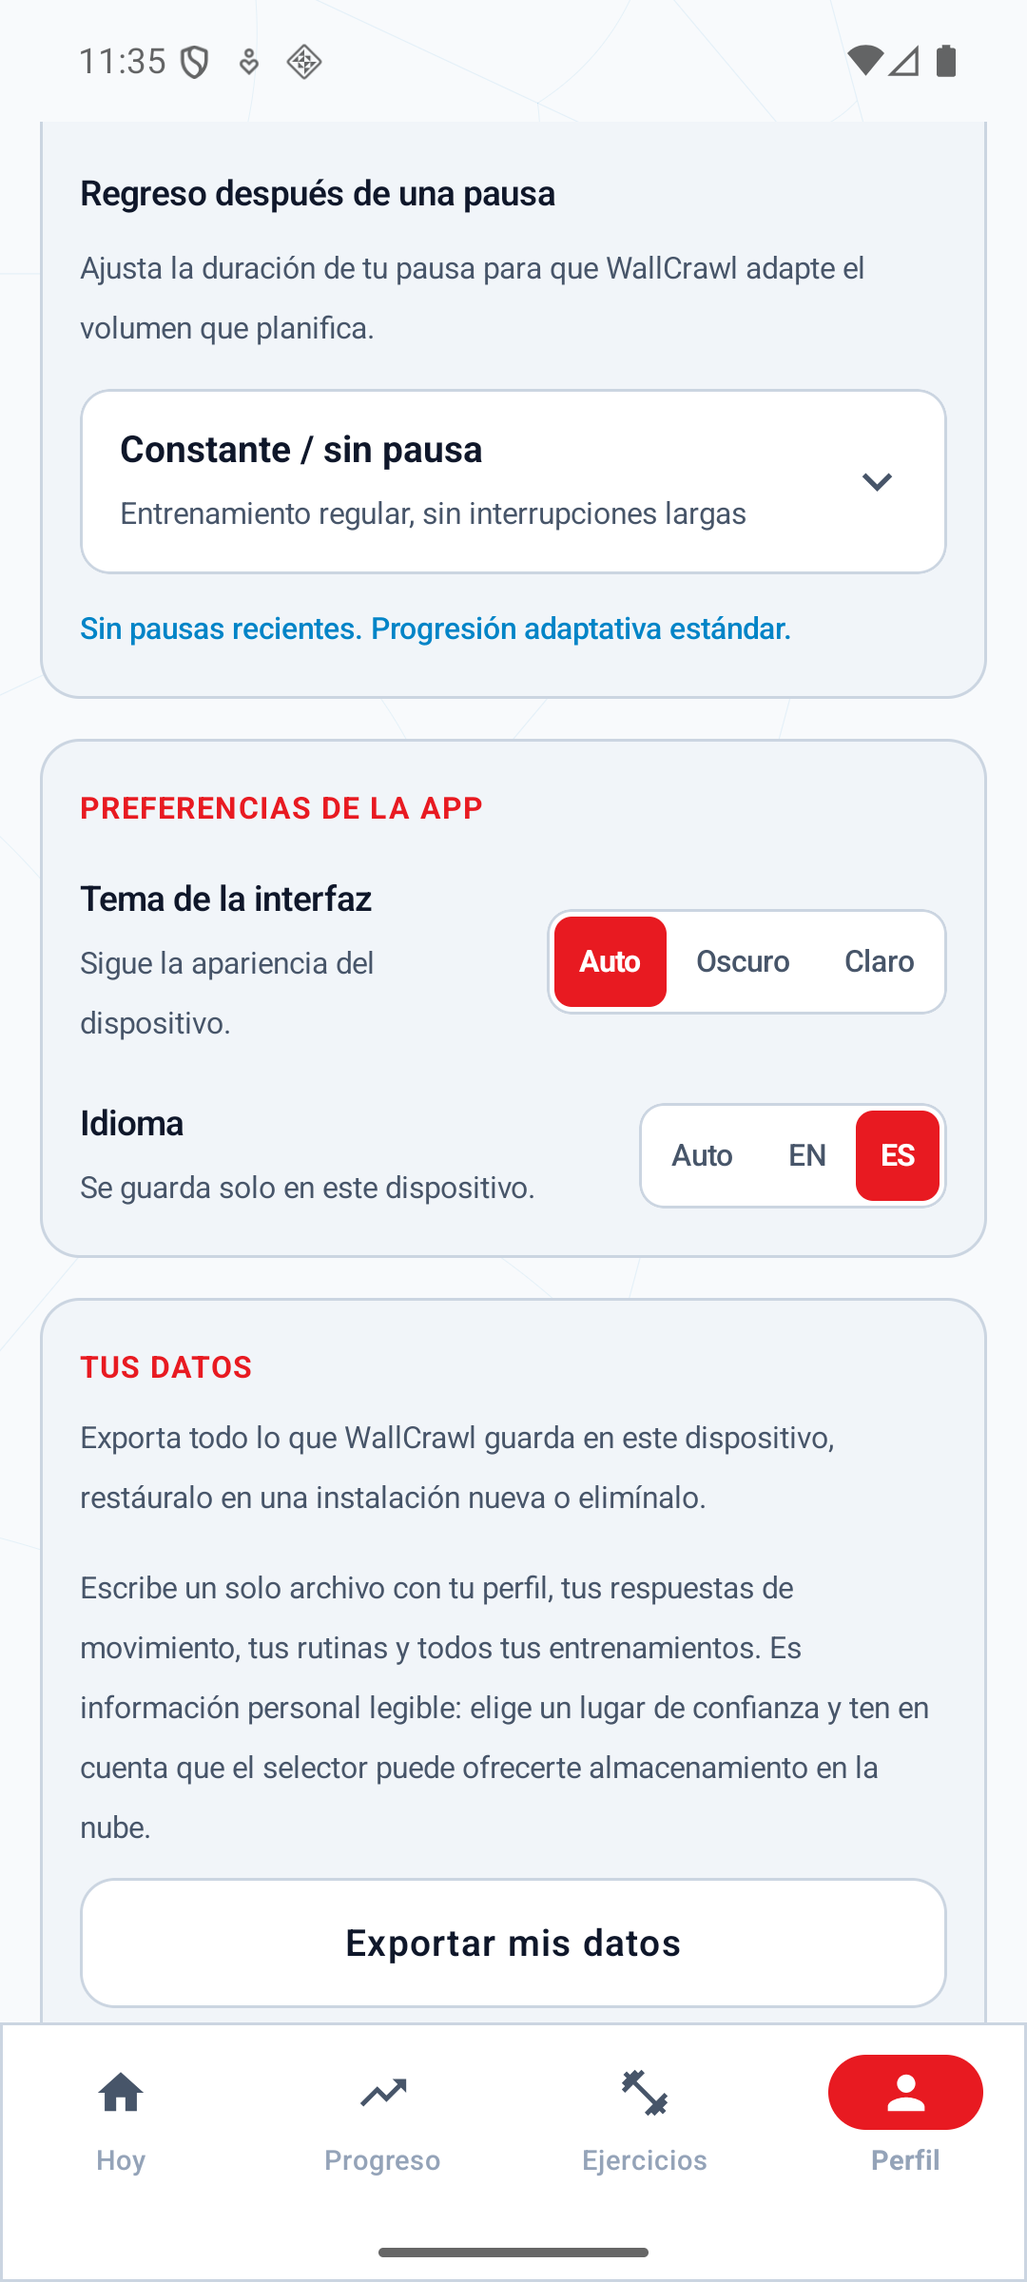
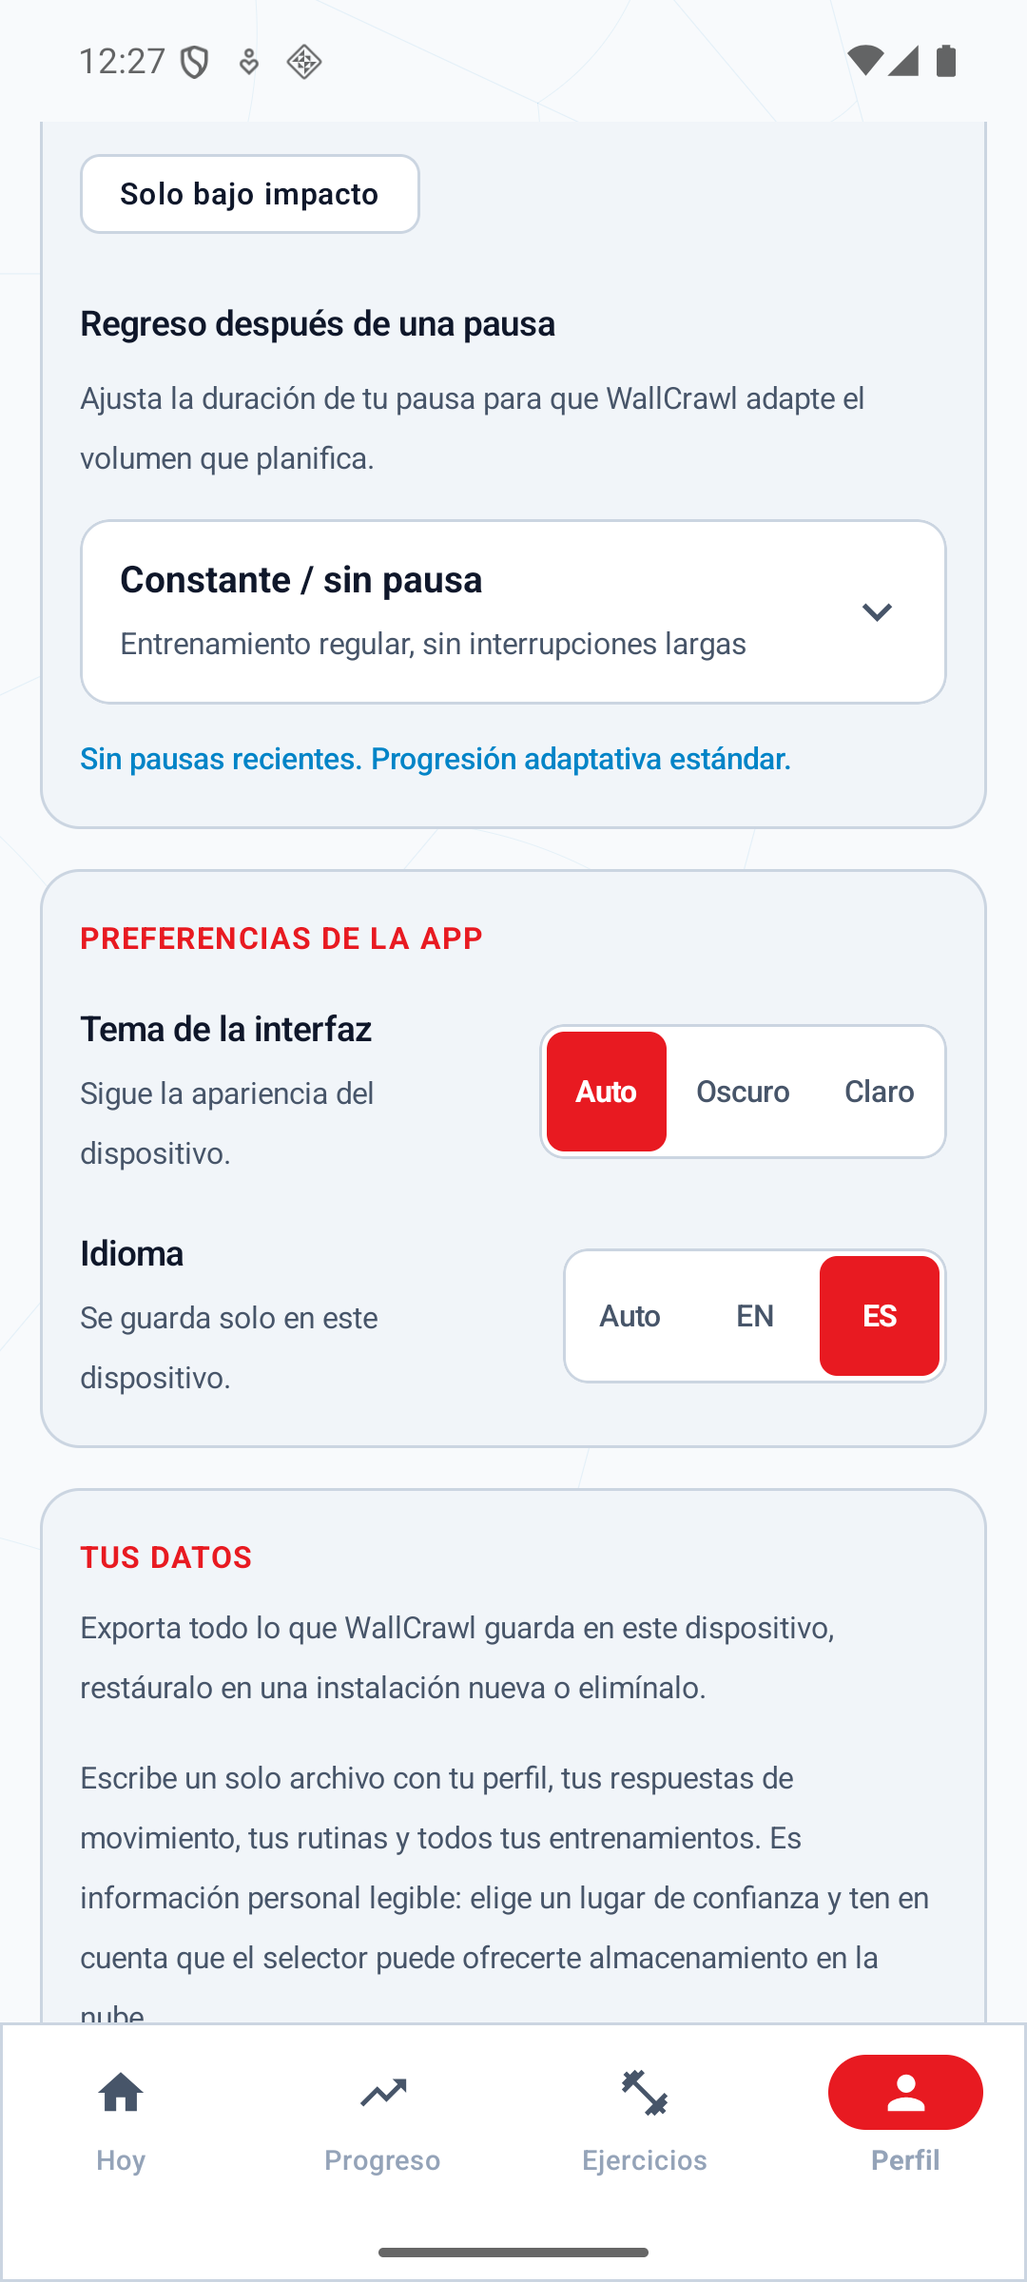
fix: report restore outcomes outside the sheet, and reach the small controls
Review of the previous two commits found six things, all fixed here.

The one that mattered: LocalDataMessageText was rendered only inside the restore
sheet. The sheet can be dismissed while a restore is still reading the document,
so a failure arriving afterwards was reported to nobody — the entry line simply
re-enabled with its usual label, as if nothing had happened. The same held for a
restored archive whose onboarding was never finished, which stays in the wizard
and so navigates nowhere to announce itself. Completion navigation already lived
outside the sheet in LocalDataOutcomeEffect; the message now does too. The new
test fails if it is put back inside.

The chip decided which code to show with `if (es) SPANISH else ENGLISH`. Every
other AppLanguage consumer is exhaustive over entries and would fail to compile
on a new language; this one would have compiled and painted "EN" over a
Portuguese interface. It now derives the language from the enum.

The segmented pill's segments were about 24x28dp — the language preference moved
into that control in the previous commit, and it was the one place in the change
not holding the 48dp line the chip and the restore entry both hold. The label
still shrinks; the target no longer does.

Also: LanguageChipTest asserted the English label while the chip renders whatever
the configuration resolved, so it would have failed on a Spanish device — the
configuration this feature exists for. It pins English now, the way
[…]

diff --git a/app/src/androidTest/java/wallcrawl/elopenmike/com/feature/onboarding/OnboardingRestoreEntryTest.kt b/app/src/androidTest/java/wallcrawl/elopenmike/com/feature/onboarding/OnboardingRestoreEntryTest.kt
@@ -1,0 +1,176 @@
+package wallcrawl.elopenmike.com.feature.onboarding
+
+import androidx.annotation.StringRes
+import androidx.compose.material3.Text
+import androidx.compose.runtime.Composable
+import androidx.compose.runtime.getValue
+import androidx.compose.runtime.mutableStateOf
+import androidx.compose.runtime.setValue
+import androidx.compose.ui.test.assertIsDisplayed
+import androidx.compose.ui.test.assertIsEnabled
+import androidx.compose.ui.test.assertIsNotEnabled
+import androidx.compose.ui.test.junit4.createComposeRule
+import androidx.compose.ui.test.onNodeWithText
+import androidx.compose.ui.test.performClick
+import androidx.compose.ui.test.performTextInput
+import androidx.test.ext.junit.runners.AndroidJUnit4
+import androidx.test.platform.app.InstrumentationRegistry
+import com.google.common.truth.Truth.assertThat
+import kotlinx.coroutines.flow.Flow
+import kotlinx.coroutines.flow.MutableStateFlow
+import org.junit.Rule
+import org.junit.Test
+import org.junit.runner.RunWith
+import wallcrawl.elopenmike.com.R
+import wallcrawl.elopenmike.com.core.database.repository.UserProfileRepository
+import wallcrawl.elopenmike.com.core.model.ExperienceLevel
+import wallcrawl.elopenmike.com.core.model.FitnessGoal
+import wallcrawl.elopenmike.com.core.model.PriorityLevel
+import wallcrawl.elopenmike.com.core.model.ThemePreference
+import wallcrawl.elopenmike.com.core.model.TrainingConstraint
+import wallcrawl.elopenmike.com.core.model.UserProfile
+import wallcrawl.elopenmike.com.core.model.WeightUnit
+import wallcrawl.elopenmike.com.core.ui.theme.WallCrawlTheme
+
+/**
+ * How the restore entry sits inside the wizard.
+ *
+ * `LocalDataControlsTest` covers the entry point and its sheet on their own. What only
+ * shows up here is the wiring between them and the wizard: that a restore in flight blocks
+ * the step that would write a profile over it, that the entry belongs to the first step
+ * alone, and that using it neither advances the wizard nor loses what was typed.
+ *
+ * The restore slot is a stand-in rather than the real sheet — this is about the host, and
+ * the real flow is exercised where it lives.
+ */
+@RunWith(AndroidJUnit4::class)
+class OnboardingRestoreEntryTest {
+
+    @get:Rule
+    val composeRule = createComposeRule()
+
+    private fun text(@StringRes id: Int): String =
+        InstrumentationRegistry.getInstrumentation().targetContext.getString(id)
+
+    @Test
+    fun aRestoreInFlightBlocksTheStepThatWouldOverwriteIt() {
+        // Finishing the wizard writes a whole profile. A restore is about to commit one, so
+        // the two must not race: Continue says what is happening and refuses.
+        showWizard(isRestoreInFlight = true)
+
+        composeRule.onNodeWithText(text(R.string.local_data_restore_progress))
+            .assertIsDisplayed()
+            .assertIsNotEnabled()
+        composeRule.onNodeWithText(text(R.string.onboarding_action_continue)).assertDoesNotExist()
+    }
+
+    @Test
+    fun theEntryBelongsToTheFirstStepOnly() {
+        val viewModel = showWizard()
+
+        composeRule.onNodeWithText(RESTORE_SLOT).assertIsDisplayed()
+
+        // The first step will not advance without a name, so give it one.
+        composeRule.onNodeWithText(text(R.string.onboarding_codename_placeholder))
+            .performTextInput("Alex")
+        composeRule.waitForIdle()
+        composeRule.onNodeWithText(text(R.string.onboarding_action_continue)).performClick()
+        composeRule.waitForIdle()
+
+        assertThat(viewModel.uiState.value.currentStep).isNotEqualTo(OnboardingStep.WELCOME)
+        composeRule.onNodeWithText(RESTORE_SLOT).assertDoesNotExist()
+    }
+
+    @Test
+    fun openingAndClosingTheEntryAdvancesNothingAndKeepsTheDraft() {
+        // The sheet's open state lives in the slot, not in the wizard. Toggling it here is
+        // the whole point: the wizard is never told, which is why opening or dismissing it
+        // cannot move the step or clear what was typed.
+        var sheetOpen by mutableStateOf(false)
+        val viewModel = OnboardingViewModel(FakeUserProfileRepository())
+        composeRule.setContent {
+            WallCrawlTheme {
+                OnboardingScreen(
+                    viewModel = viewModel,
+                    onCompleted = {},
+                    restoreFromArchive = {
+                        Text(if (sheetOpen) SHEET_OPEN else RESTORE_SLOT)
+                    }
+                )
+            }
+        }
+        composeRule.waitForIdle()
+
+        composeRule.onNodeWithText(text(R.string.onboarding_codename_placeholder))
+            .performTextInput("Gabriela")
+        composeRule.waitForIdle()
+
+        sheetOpen = true
+        composeRule.waitForIdle()
+        composeRule.onNodeWithText(SHEET_OPEN).assertIsDisplayed()
+
+        sheetOpen = false
+        composeRule.waitForIdle()
+
+        assertThat(viewModel.uiState.value.currentStep).isEqualTo(OnboardingStep.WELCOME)
+        assertThat(viewModel.uiState.value.name).isEqualTo("Gabriela")
+        composeRule.onNodeWithText("Gabriela").assertIsDisplayed()
+        composeRule.onNodeWithText(text(R.string.onboarding_action_continue)).assertIsEnabled()
+    }
+
+    private fun showWizard(
+        isRestoreInFlight: Boolean = false,
+        restoreSlot: @Composable () -> Unit = { Text(RESTORE_SLOT) }
+    ): OnboardingViewModel {
+        val viewModel = OnboardingViewModel(FakeUserProfileRepository())
+        composeRule.setContent {
+            WallCrawlTheme {
+                OnboardingScreen(
+                    viewModel = viewModel,
+                    onCompleted = {},
+                    restoreFromArchive = restoreSlot,
+                    isRestoreInFlight = isRestoreInFlight
+                )
+            }
+        }
+        composeRule.waitForIdle()
+        return viewModel
+    }
+
+    private companion object {
+        const val RESTORE_SLOT = "restore-slot"
+        const val SHEET_OPEN = "restore-sheet-open"
+    }
+}
+
+private class FakeUserProfileRepository : UserProfileRepository {
+    private val profile = MutableStateFlow(UserProfile())
+
+    override fun getUserProfile(): Flow<UserProfile> = profile
+    override suspend fun getProfileOnce(): UserProfile = profile.value
+    override suspend fun saveUserProfile(profile: UserProfile) {
+        this.profile.value = profile
+    }
+
+    override suspend fun saveProfile(profile: UserProfile) {
+        this.profile.value = profile
+    }
+
+    override suspend fun updateGoals(goals: Set<FitnessGoal>) = error("Not used")
+    override suspend fun updatePrimaryGoal(goal: FitnessGoal) = error("Not used")
+    override suspend fun updateExperienceLevel(level: ExperienceLevel) = error("Not used")
+    override suspend fun updatePreferredDuration(minutes: Int) = error("Not used")
+    override suspend fun updateDaysPerWeek(days: Int) = error("Not used")
+    override suspend fun updateEquipment(equipment: List<String>) = error("Not used")
+    override suspend fun updateUnit(unit: WeightUnit) = error("Not used")
+    override suspend fun updateMusclePriorities(priorities: Map<String, PriorityLevel>) =
+        error("Not used")
+
+    override suspend fun updateExcludedExercises(excludedIds: List<String>) = error("Not used")
+    override suspend fun updateTrainingConstraints(constraints: Set<TrainingConstraint>) =
+        error("Not used")
+
+    override suspend fun updateReturningAfterBreakWeeks(weeks: Int) = error("Not used")
+    override suspend fun updateThemePreference(themePreference: ThemePreference) =
+        error("Not used")
+}

diff --git a/app/src/androidTest/java/wallcrawl/elopenmike/com/core/ui/components/LanguageChipTest.kt b/app/src/androidTest/java/wallcrawl/elopenmike/com/core/ui/components/LanguageChipTest.kt
@@ -1,5 +1,11 @@
 package wallcrawl.elopenmike.com.core.ui.components
 
+import android.content.res.Configuration
+import androidx.compose.runtime.Composable
+import androidx.compose.runtime.CompositionLocalProvider
+import androidx.compose.ui.platform.LocalConfiguration
+import androidx.compose.ui.platform.LocalContext
+import java.util.Locale
 import androidx.compose.ui.test.assertHeightIsAtLeast
 import androidx.compose.ui.test.assertIsDisplayed
 import androidx.compose.ui.test.assertWidthIsAtLeast
@@ -37,14 +43,33 @@ class LanguageChipTest {
     @get:Rule
     val composeRule = createComposeRule()
 
+    // Pinned, not ambient: the chip shows whichever language the configuration resolved
+    // to, so a Spanish-configured device would otherwise render ES and fail every
+    // assertion here — the configuration this feature exists to support.
     private val context = InstrumentationRegistry.getInstrumentation().targetContext
+        .createConfigurationContext(
+            Configuration(InstrumentationRegistry.getInstrumentation().targetContext.resources.configuration)
+                .apply { setLocale(Locale.ENGLISH) }
+        )
+
+    @Composable
+    private fun InEnglish(content: @Composable () -> Unit) {
+        val configuration = Configuration(LocalConfiguration.current).apply {
+            setLocale(Locale.ENGLISH)
+        }
+        CompositionLocalProvider(
+            LocalConfiguration provides configuration,
+            LocalContext provides LocalContext.current.createConfigurationContext(configuration),
+            content = content
+        )
+    }
 
     @Test
     fun theChipShowsTheLanguageBeingRead() {
         // Under System default the code is still concrete: it answers "what am I looking
         // at", which is the only question a two-letter chip can answer.
         composeRule.setContent {
-            WallCrawlTheme { LanguageChip(current = AppLanguage.SYSTEM, onSelect = {}) }
+            WallCrawlTheme { InEnglish { LanguageChip(current = AppLanguage.SYSTEM, onSelect = {}) } }
         }
 
         composeRule
@@ -55,7 +80,7 @@ class LanguageChipTest {
     @Test
     fun theChipStaysReachableEvenThoughItIsSmall() {
         composeRule.setContent {
-            WallCrawlTheme { LanguageChip(current = AppLanguage.SYSTEM, onSelect = {}) }
+            WallCrawlTheme { InEnglish { LanguageChip(current = AppLanguage.SYSTEM, onSelect = {}) } }
         }
 
         val chip = composeRule.onNodeWithContentDescription(
@@ -74,7 +99,7 @@ class LanguageChipTest {
         // Shrinking the control must not drop System default: following the device is the
         // behaviour a fresh install depends on.
         composeRule.setContent {
-            WallCrawlTheme { LanguageChip(current = AppLanguage.SYSTEM, onSelect = {}) }
+            WallCrawlTheme { InEnglish { LanguageChip(current = AppLanguage.SYSTEM, onSelect = {}) } }
         }
 
         openChip()
@@ -91,7 +116,7 @@ class LanguageChipTest {
         val chosen = mutableListOf<AppLanguage>()
         composeRule.setContent {
             WallCrawlTheme {
-                LanguageChip(current = AppLanguage.SYSTEM, onSelect = { chosen += it })
+                InEnglish { LanguageChip(current = AppLanguage.SYSTEM, onSelect = { chosen += it }) }
             }
         }
 

diff --git a/app/src/androidTest/java/wallcrawl/elopenmike/com/feature/backup/LocalDataControlsTest.kt b/app/src/androidTest/java/wallcrawl/elopenmike/com/feature/backup/LocalDataControlsTest.kt
@@ -13,6 +13,7 @@ import androidx.compose.ui.graphics.toPixelMap
 import androidx.compose.ui.platform.LocalDensity
 import androidx.compose.ui.test.SemanticsNodeInteraction
 import androidx.compose.ui.test.assertHasClickAction
+import android.net.Uri
 import androidx.compose.ui.test.assertHeightIsAtLeast
 import androidx.compose.ui.test.assertIsDisplayed
 import androidx.compose.ui.test.assertIsEnabled
@@ -37,8 +38,6 @@ import wallcrawl.elopenmike.com.core.database.repository.LocalDataExportResult
 import wallcrawl.elopenmike.com.core.database.repository.LocalDataRestoreResult
 import wallcrawl.elopenmike.com.core.model.ThemePreference
 import wallcrawl.elopenmike.com.core.ui.theme.WallCrawlTheme
-import wallcrawl.elopenmike.com.feature.backup.LOCAL_DATA_RESTORE_ENTRY_TEST_TAG
-import wallcrawl.elopenmike.com.feature.backup.LocalDataOperation
 
 /**
  * The destructive path and the accessibility surface of the local-data controls.
@@ -245,6 +244,21 @@ class LocalDataControlsTest {
 
         composeRule.onNodeWithText(text(R.string.local_data_restore_blocked)).assertIsDisplayed()
         composeRule.onNodeWithTag(LOCAL_DATA_RESTORE_TEST_TAG).assertIsNotEnabled()
+    }
+
+    @Test
+    fun onboardingOutcomeIsReportedEvenWithTheSheetClosed() {
+        // The sheet can be dismissed while a restore is still reading the document. If the
+        // outcome text lived inside it, a failure arriving afterwards would be reported to
+        // nobody and the entry would just re-enable as if nothing had happened.
+        val viewModel = showOnboardingEntry(FakeBackupRepository(restoreAllowed = true))
+
+        composeRule.onNodeWithTag(LOCAL_DATA_RESTORE_SHEET_TEST_TAG).assertDoesNotExist()
+        viewModel.restoreFrom(Uri.parse("content://wallcrawl.test.absent/archive.json"))
+        composeRule.waitUntil(TIMEOUT_MILLIS) { viewModel.uiState.value.message != null }
+        composeRule.waitForIdle()
+
+        composeRule.onNodeWithTag(LOCAL_DATA_MESSAGE_TEST_TAG).assertIsDisplayed()
     }
 
     private fun showOnboardingEntry(repository: FakeBackupRepository): LocalDataViewModel {

diff --git a/app/src/androidTest/java/wallcrawl/elopenmike/com/feature/profile/AppPreferencesCardTest.kt b/app/src/androidTest/java/wallcrawl/elopenmike/com/feature/profile/AppPreferencesCardTest.kt
@@ -1,6 +1,9 @@
 package wallcrawl.elopenmike.com.feature.profile
 
 import androidx.annotation.StringRes
+import androidx.compose.ui.test.assertHeightIsAtLeast
+import androidx.compose.ui.test.assertWidthIsAtLeast
+import androidx.compose.ui.unit.dp
 import androidx.compose.ui.test.assertIsDisplayed
 import androidx.compose.ui.test.junit4.createComposeRule
 import androidx.compose.ui.test.onNodeWithContentDescription
@@ -57,6 +60,24 @@ class AppPreferencesCardTest {
             composeRule.onNodeWithContentDescription(
                 text(R.string.language_option_accessibility, text(language.labelRes))
             ).assertIsDisplayed()
+        }
+    }
+
+    @Test
+    fun theAbbreviatedSegmentsAreStillBigEnoughToHit() {
+        // "EN" is two characters wide. The label is what shrinks; the target is not.
+        composeRule.setContent {
+            WallCrawlTheme {
+                AppPreferencesCard(currentTheme = ThemePreference.SYSTEM, onSelectTheme = {})
+            }
+        }
+
+        AppLanguage.entries.forEach { language ->
+            composeRule.onNodeWithContentDescription(
+                text(R.string.language_option_accessibility, text(language.labelRes))
+            )
+                .assertHeightIsAtLeast(48.dp)
+                .assertWidthIsAtLeast(48.dp)
         }
     }
 }

diff --git a/app/src/main/java/wallcrawl/elopenmike/com/feature/profile/ProfileScreen.kt b/app/src/main/java/wallcrawl/elopenmike/com/feature/profile/ProfileScreen.kt
@@ -12,6 +12,7 @@ import androidx.compose.foundation.layout.FlowRow
 import androidx.compose.foundation.layout.Row
 import androidx.compose.foundation.layout.Spacer
 import androidx.compose.foundation.layout.fillMaxSize
+import androidx.compose.foundation.layout.defaultMinSize
 import androidx.compose.foundation.layout.fillMaxWidth
 import androidx.compose.foundation.layout.height
 import androidx.compose.foundation.layout.padding
@@ -944,6 +945,9 @@ private fun <T> SegmentedPill(
             val optionDescription = accessibilityLabel(option)
             Box(
                 modifier = Modifier
+                    // Abbreviated labels make a segment narrow enough to be hard to hit;
+                    // the label shrinks, the target does not.
+                    .defaultMinSize(minWidth = 48.dp, minHeight = 48.dp)
                     .clip(RoundedCornerShape(7.dp))
                     .background(if (isSelected) CrimsonRedPrimary else Color.Transparent)
                     .clickable { onSelect(option) }

diff --git a/app/src/main/java/wallcrawl/elopenmike/com/core/ui/components/LanguageControls.kt b/app/src/main/java/wallcrawl/elopenmike/com/core/ui/components/LanguageControls.kt
@@ -57,11 +57,13 @@ fun LanguageChip(
     onSelect: (AppLanguage) -> Unit = AppLanguageController::apply
 ) {
     val locale = LocalConfiguration.current.locales[0]
-    val effective = if (locale.language == AppLanguage.SPANISH.languageTag) {
-        AppLanguage.SPANISH
-    } else {
-        AppLanguage.ENGLISH
-    }
+    // Whichever shipped language the resources actually resolved to. Derived from the enum
+    // rather than branched on Spanish, so adding a language cannot leave this reading "EN"
+    // over an interface that is not English. Anything unshipped reads as English, which is
+    // what the resources themselves fall back to.
+    val effective = AppLanguage.entries.firstOrNull {
+        it != AppLanguage.SYSTEM && it.languageTag == locale.language
+    } ?: AppLanguage.ENGLISH
     val description = stringResource(
         R.string.language_option_accessibility,
         stringResource(effective.labelRes)

diff --git a/app/src/main/java/wallcrawl/elopenmike/com/feature/backup/LocalDataControls.kt b/app/src/main/java/wallcrawl/elopenmike/com/feature/backup/LocalDataControls.kt
@@ -203,10 +203,16 @@ fun RestoreFromArchiveButton(
                 BodyText(stringResource(R.string.onboarding_restore_scope))
                 Spacer(modifier = Modifier.height(12.dp))
                 RestoreControl(viewModel = viewModel, state = state)
-                LocalDataMessageText(state)
             }
         }
     }
+
+    // Outside the sheet on purpose. The sheet can be dismissed while a restore is still
+    // reading the document, and a failure arriving afterwards would otherwise be reported
+    // to nobody: the entry line would just re-enable with its usual label. The same goes
+    // for a restored archive whose onboarding was never finished — it stays in the wizard,
+    // so it navigates nowhere to announce itself.
+    LocalDataMessageText(state)
 }
 
 @Composable
